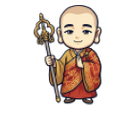
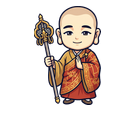
feat(assets): 换用 image 素材，完成唐僧、灵蕴、锁格与章节地图背景
- assets:prepare 增加 --bg auto/checker/none 与 --crop，支持白底、平灰底、棋盘格和真透明输入
- 唐僧换成 image/唐僧.png 的 Q 版形象，135×135、78% 脚点
- 灵蕴取自仙桃和灵韵右半，五行山锁格用真透明原图，均落地为透明 PNG
- 新增章节选择页背景 关卡地图背景.png（750×1334）
- 三大阵营因银白弧线与角描边是半透明，泛洪会沿半透明边渗入，暂不接入
- P0 更新为 98/108，剩余 10 张全为 UI 图标；总纲升至 v2.15
- 移除已被 image/五行山石头 (1).png 替代的旧母图

Changed region(s): [[0.237, 0.0296, 0.7704, 0.8]]

diff --git a/docs/待办清单-素材与上线.md b/docs/待办清单-素材与上线.md
@@ -6,7 +6,7 @@
 
 > 生成日期：2026-07-09
 > 最近修订：2026-10-26
-> 当前状态：玩法与 UI 功能基本完成；P0 已处理并接入 96/108，剩余 12 张；14 个英雄 1 阶、14 张英雄碎片、20 张小兵、10 个普通敌人、9 个精英敌人、9 个 BOSS、5 个道具、12 个法宝和唐僧已完成本地处理与接入，9 个 BOSS 待真实棋盘或 UI 截图验收；真机验证尚未开始
+> 当前状态：玩法与 UI 功能基本完成；P0 已处理并接入 98/108，剩余 10 张（全部是 UI 图标）；14 个英雄 1 阶、14 张英雄碎片、20 张小兵、10 个普通敌人、9 个精英敌人、9 个 BOSS、5 个道具、12 个法宝和唐僧已完成本地处理与接入，9 个 BOSS 待真实棋盘或 UI 截图验收；真机验证尚未开始
 > 使用方式：按 P0、第二批两个批次执行，做完一项改 `[ ]` 为 `[x]`
 
 ---
@@ -50,29 +50,29 @@
 - [x] `仙桃.png`：64×64，绿幕版叶子保留，透明边缘无亮绿色残留
 - [x] `战斗背景_森林.png`：750×1334，经确认保留小面积环境题字
 - [x] `art-source/references/风格板.png`：早期流程留档；含已替换素材，不再作为后续生图参考
-- [ ] 其余 12 个 P0 运行时静态资源
-- [x] 除上述 96 张已处理并接入素材外，其余 12 张旧 P0 PNG 仍只作为开发期占位，不参与验收；`青狮.png`、`白象.png`、`关卡地图背景.png` 3 张无代码引用的非 P0 旧图已删除（2026-10-26）
+- [ ] 其余 10 个 P0 运行时静态资源（均为 UI 图标）
+- [x] 除上述 98 张已处理并接入素材外，其余 10 张旧 P0 PNG 仍只作为开发期占位，不参与验收；`青狮.png`、`白象.png` 2 张无代码引用的非 P0 旧图已删除（2026-10-26）
 
 ### 现有资产盘点
 
-`public/assets/` 当前有 108 张运行时 PNG：其中 96 张已处理并接入、12 张仍是旧版 P0 占位。旧文件只用于避免现有游戏失去降级资源，不代表可用美术，也不按代码引用情况删除。P0 目标是 108 张：
+`public/assets/` 当前有 108 张运行时 PNG：其中 98 张已处理并接入、10 张仍是旧版 P0 占位。旧文件只用于避免现有游戏失去降级资源，不代表可用美术，也不按代码引用情况删除。P0 目标是 108 张：
 
 | 类别 | 现有数量 | 处理结论 |
 | --- | ---: | --- |
 | 小兵静态图 | 20 | 已全部接入；来自 `imagev2/小兵20张.png`，属于用户确认的旧风格例外，不再重生成 |
-| 唐僧静态图 | 1 | 保留当前游戏图，已对齐 135×135 和 78% 脚点，不再重生成 |
+| 唐僧静态图 | 1 | 已换成 `image/唐僧.png` 的 Q 版形象，135×135、78% 脚点 |
 | 英雄 `1阶` | 14 | 已全部采用当前最终图并完成 96×96 处理 |
 | 英雄碎片 | 14 | 已全部按统一玉牌徽记风格完成并接入 `HeroShard.ts` |
 | 敌人 | 28 | 28 张 P0 已全部处理并接入，其中 9 个 BOSS 待截图验收 |
 | 道具 | 5 | 5 张已全部处理并接入 |
 | 法宝 | 12 | 12 张已全部处理并接入 |
-| UI、背景、锁格 | 14 | 14 张 P0 中仅 `仙桃`、`战斗背景_森林` 已验收，继续补 12 张 |
+| UI、背景、锁格 | 14 | 4 张已完成（`仙桃`、`战斗背景_森林`、`灵蕴`、`五行山-符印封石`），继续补 10 张 |
 
 > 文件“已经存在”不等于素材“已经完成”。除用户确认的 20 张小兵、10 个普通敌人和当前唐僧图外，旧图不得作为 Gemini 参考，也不得混入 v2 风格板；这些例外素材同样不作为后续新图的画风参考。P0 只验收中立静态图、透明通道、尺寸、脚点和棋盘合成；左右方向必须在第二批成对验收。
 
 ### 核心缺口
 
-- [ ] 其余 12 张 P0 静态图生成并验收
+- [ ] 其余 10 张 P0 静态图生成并验收
 - [ ] 全部 UI 界面视觉重制，包括面板、按钮、图标、背景、状态和排版 — **0 个界面最终验收**
 - [ ] `VisualPainter.ts`、`BattleUiPrimitives.ts` 等程序化占位视觉替换为最终资源
 - [ ] 【第二批】全部角色左右向静态定稿图；每个角色必须成对交付 `stand_right` + `stand_left`
@@ -157,9 +157,9 @@
 | 道具图标 | 5 张全部生成、处理并接入 | 5 张 | [x] 5/5 |
 | 法宝图标 | 12 张全部按原著原型生成、处理并接入 | 12 张 | [x] 12/12 |
 | UI、背景、锁格 | 12 个 UI 图标 + 森林战斗背景 + 五行山锁格；仙桃和森林背景已完成 | 14 张 | [x] 2/14 |
-| **合计** | P0 运行时静态资源 | **108 张** | [x] 96/108 已处理 |
+| **合计** | P0 运行时静态资源 | **108 张** | [x] 98/108 已处理 |
 
-> P0 每张只做中立静态图，不带方向。`stand_right`、`stand_left` 从第二批开始成对交付。`96/108` 表示已处理并接入；9 个 BOSS 仍需真实棋盘或 UI 截图验收。
+> P0 每张只做中立静态图，不带方向。`stand_right`、`stand_left` 从第二批开始成对交付。`98/108` 表示已处理并接入；9 个 BOSS 仍需真实棋盘或 UI 截图验收。
 
 ### 2.3 P0 UI、背景、锁格与旧图隔离
 

diff --git a/docs/P0-剩余27张提示词-可直接粘贴.md b/docs/P0-剩余27张提示词-可直接粘贴.md
@@ -2,7 +2,7 @@
 
 > 生成日期：2026-10-26
 > 范围：P0 未完成的 27 张（道具 4 + 法宝 11 + UI 与锁格 12）
-> **进度（2026-10-26）**：道具 4 张与法宝 11 张已完成，本文件道具部分作废，剩余 12 张（UI 图标 11 + 锁格 1）。`通用碎片` 已按下方修正版（翠绿/青蓝/橙金/靛蓝）重做完成，紫红与洋红键色冲突的问题已消除。
+> **进度（2026-10-27）**：道具 4 张、法宝 11 张、灵蕴、五行山锁格均已完成，剩余 10 张（全部是 UI 图标：血量、波次、击杀、暂停、星级、扫荡、广告奖励、阵营 师徒/仙佛/妖王）。
 > 规则来源：[素材生产总纲.md](./素材生产总纲.md) §8、§9 与 [Gemini-P0单资产提示词包.md](./Gemini-P0单资产提示词包.md) §1、§2
 > 本文件是把固定块和单次 brief 拼好的成品，逐张复制，不要再自己改写风格描述。
 
@@ -20,7 +20,7 @@
    pnpm assets:prepare -- "D:\下载\原图.png" --type <类型> --name "<文件名>" --force
    ```
    `--type` 取值：道具 `item`、法宝 `artifact`、UI 图标 `ui`、锁格 `lock`。
-4. **每落地一张就更新台账**的 `96/108`，不要攒完再一次性验收。
+4. **每落地一张就更新台账**的 `98/108`，不要攒完再一次性验收。
 5. 提示词里的色键已按主体颜色选好。如果出图后主体和背景难分辨，把那一句换成另一个色键（绿色 ⇄ 洋红色）再生成。
 
 ## 一、道具（4 张，128×128，`--type item`）

diff --git a/docs/Gemini-P0单资产提示词包.md b/docs/Gemini-P0单资产提示词包.md
@@ -365,7 +365,7 @@ UI 图标统一用第 2.3 节模板；背景和锁格使用各自的专属模板
 
 历史 brief：Q 版青年僧人，面容清秀，白色内袍、红金锦斓袈裟、五佛冠、僧鞋；右手竖持一根九环锡杖，左手结印。当前游戏已采用现有唐僧图，本 brief 不再执行。
 
-以上分组合计 **108 个运行时文件**。当前已处理并接入 **96/108**，剩余 12 张（UI 图标 11 + 五行山锁格 1）：其中 20 张小兵、10 个普通敌人和唐僧来自旧风格素材处理，属于用户确认例外，不计作 v2 新生成素材。
+以上分组合计 **108 个运行时文件**。当前已处理并接入 **98/108**，剩余 10 张（全部是 UI 图标）：其中 20 张小兵和 10 个普通敌人来自旧风格素材处理，属于用户确认例外，不计作 v2 新生成素材。
 
 ## 5. P0 生成顺序
 
@@ -376,7 +376,7 @@ UI 图标统一用第 2.3 节模板；背景和锁格使用各自的专属模板
 5. `[x]` 14 个英雄碎片已全部完成并接入 `HeroShard.ts`。
 6. `[x]` 9 个精英敌人已全部完成。
 7. `[x]` 生成 9 个 BOSS。
-8. `[ ]` 生成剩余 12 个 UI 图标和五行山锁格。
+8. `[ ]` 生成剩余 10 个 UI 图标（含 3 个阵营徽记）。
 9. `[ ]` 全部通过后，统一接入并做真实棋盘截图验收。
 
 ## 6. 本地后处理和验收
